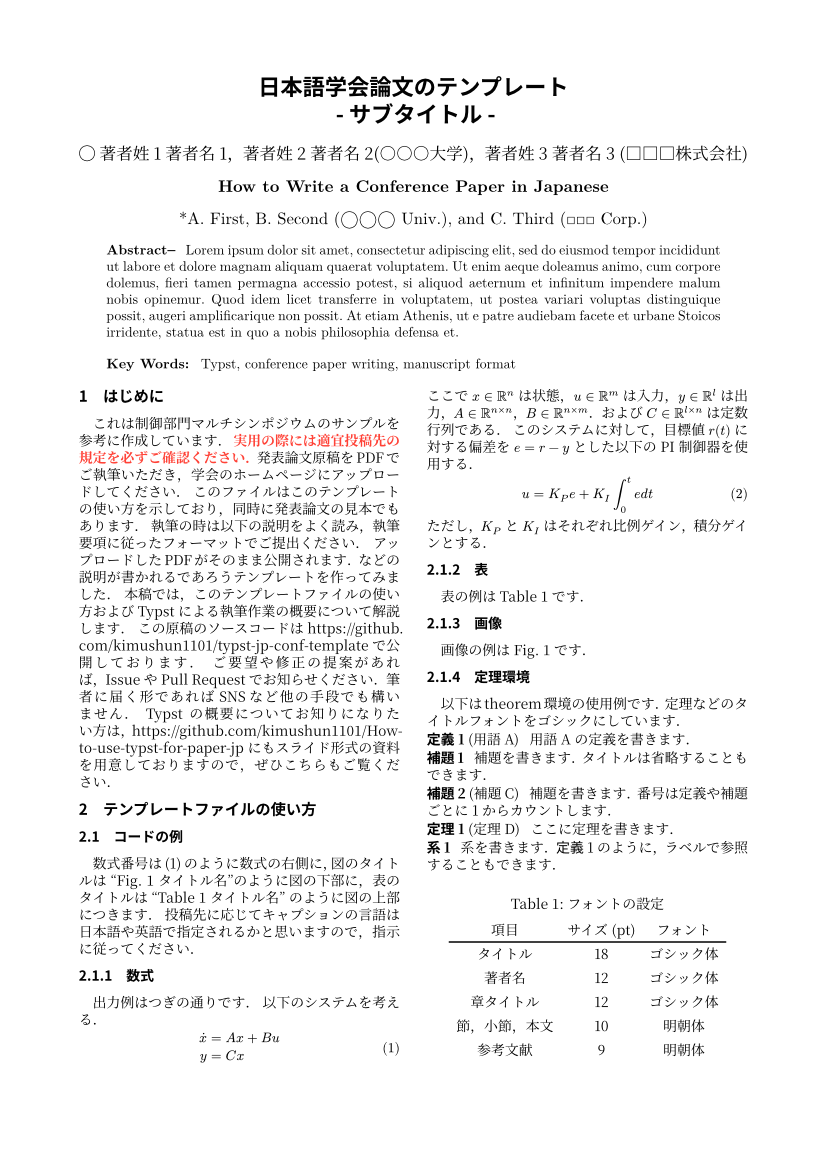
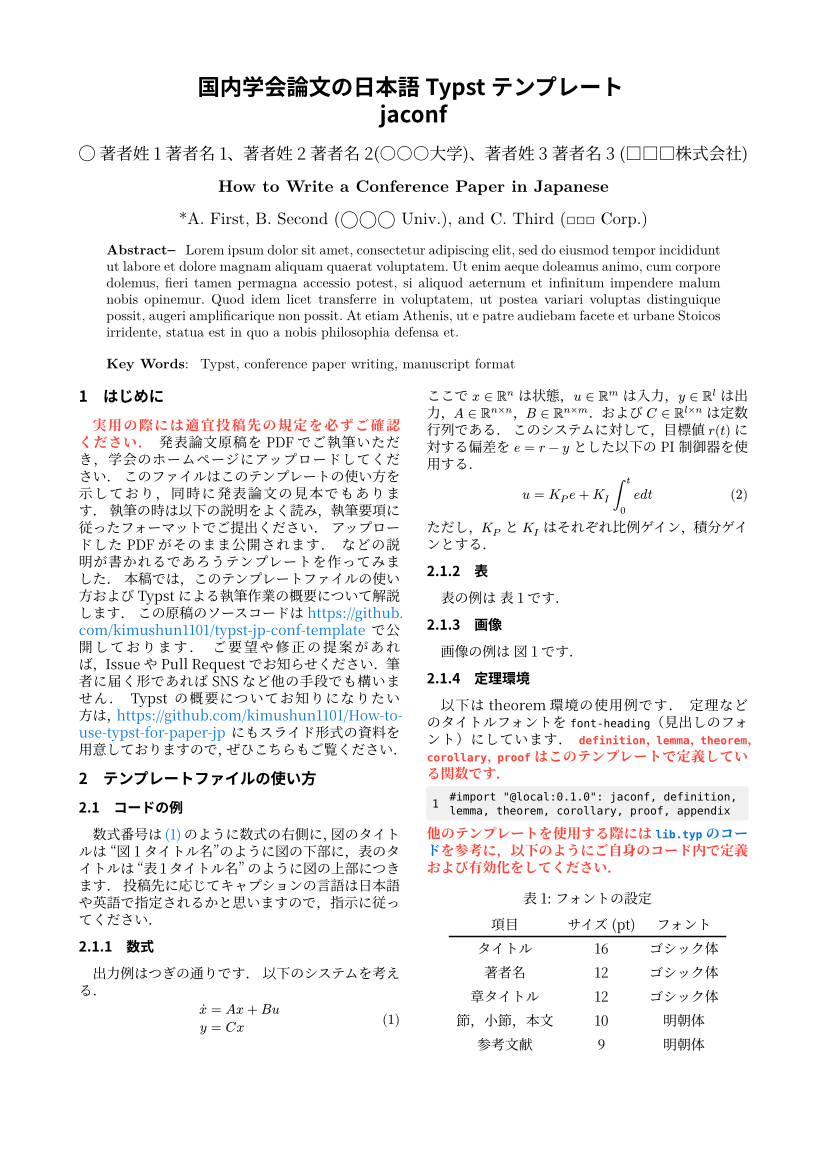
Fix: for typst-package

diff --git a/docs/update-workflow.md b/docs/update-workflow.md
@@ -4,25 +4,25 @@
 
 ## 現状の確認
 
-[Typst Universe](https://typst.app/universe/package/jaconf-mscs)から作成してエラーやワーニングを確認する。
+[Typst Universe](https://typst.app/universe/package/jaconf)から作成してエラーやワーニングを確認する。
 
 ```
 cd
-typst init @preview/jaconf-mscs:0.1.1 typst-universe
+typst init @preview/jaconf:0.1.0 typst-universe
 typst c typst-universe/main.typ
 ls typst-universe
 ```
 
 ## 修正
 
-- `jaconf-mscs/lib.typ`のエラーやワーニングを修正
+- `jaconf/lib.typ`のエラーやワーニングを修正
 - バージョンを上げる
-  - `jaconf-mscs/typst.toml`の`version`と`compiler`を更新
-  - `@preview/jaconf-mscs:0.1.1`で検索して現在のバージョンに置換
+  - `jaconf/typst.toml`の`version`と`compiler`を更新
+  - `@preview/jaconf:0.1.0`で検索して現在のバージョンに置換
 
 ## ローカルパッケージで確認
 
-このリポジトリにある`jaconf-mscs`ディレクトリ（フォルダー）の中身を特定のディレクトリに配置することで、ユーザーのどのディレクトリからでもテンプレートファイルを作成できます。特定のディレクトリとは以下の通りです。
+このリポジトリにある`jaconf`ディレクトリ（フォルダー）の中身を特定のディレクトリに配置することで、ユーザーのどのディレクトリからでもテンプレートファイルを作成できます。特定のディレクトリとは以下の通りです。
 
 - ~/.local/share/typst/packages/local/${name}/${version} # Linux
 - ~/Library/Application Support/typst/packages/local/${name}/${version} # macOS (Default Installer)
@@ -34,7 +34,7 @@ ls typst-universe
 
 ```sh
 # cd "path to typst-jp-conf-template"
-pkgname=jaconf-mscs
+pkgname=jaconf
 pkgver=$(grep -E 'version *= *".*"' ${pkgname}/typst.toml | grep -Eo '".*"' | tr -d '"')
 pkgdir=~/.local/share/typst/packages/local/${pkgname}/${pkgver}
 mkdir -p ${pkgdir}
@@ -47,7 +47,7 @@ sed -i "s|@preview|@local|" ${pkgdir}/template/main.typ
 
 ```sh
 cd
-typst init @local/jaconf-mscs typst-local
+typst init @local/jaconf typst-local
 typst c typst-local/main.typ
 ls typst-local
 ```
@@ -60,7 +60,7 @@ ls typst-local
     ```sh
     # cd "path to typst-jp-conf-template"
     typstpkgs=~/typst_ws/typst-packages
-    pkgname=jaconf-mscs
+    pkgname=jaconf
     pkgver=$(grep -E 'version *= *".*"' ${pkgname}/typst.toml | grep -Eo '".*"' | tr -d '"')
     pkgdir=${typstpkgs}/packages/preview/${pkgname}/${pkgver}
     mkdir -p ${pkgdir}
@@ -70,12 +70,21 @@ ls typst-local
 3. プルリクエストを出す。
     - [packages/jaconf-mscs:0.1.0](https://github.com/typst/packages/pull/1559)
     - [packages/jaconf-mscs:0.1.1](https://github.com/typst/packages/pull/2287)
-4. `typst-jp-conf-template`は`jaconf-mscs:*.*.*`などとコミットしておきドラフトプルリクエストにしておく。
+4. `typst-jp-conf-template`は`jaconf:*.*.*`などとコミットしておきドラフトプルリクエストにしておく。
 5. `packages`のプルリクエストがマージされたら、`typst-jp-conf-template`のドラフトプルリクエストもマージする。
     - [typst-jp-conf-template/Update jaconf-mscs:0.1.1](https://github.com/kimushun1101/typst-jp-conf-template/pull/18)
+
+## サムネイル画像の作成
+
+```sh
+cd ~/typst-local
+typst compile --pages 1 --ppi 100 --root . main.typ thumbnail.png
+# cp thumbnail.png
+```
 
 ## 後片付け
 
 ```sh
+cd
 rm -rf typst-universe typst-local
 ```

diff --git a/README.md b/README.md
@@ -20,6 +20,7 @@ Typstの概要について知りたい方は、[スライド資料](https://gith
 | libs        | 体裁を整えるライブラリファイル |
 | jaconf      | `jaconf`パッケージのファイル |
 | jaconf-mscs | `jaconf-mscs`パッケージのファイル |
+| docs        | README.mdに書くには長過ぎるドキュメントの置き場 |
 
 雰囲気を掴みたい場合には [こちらの Typst Web Application](https://typst.app/project/wXmeFlJ5bhx1awSRuJRiUf) をお試しください。  
 
